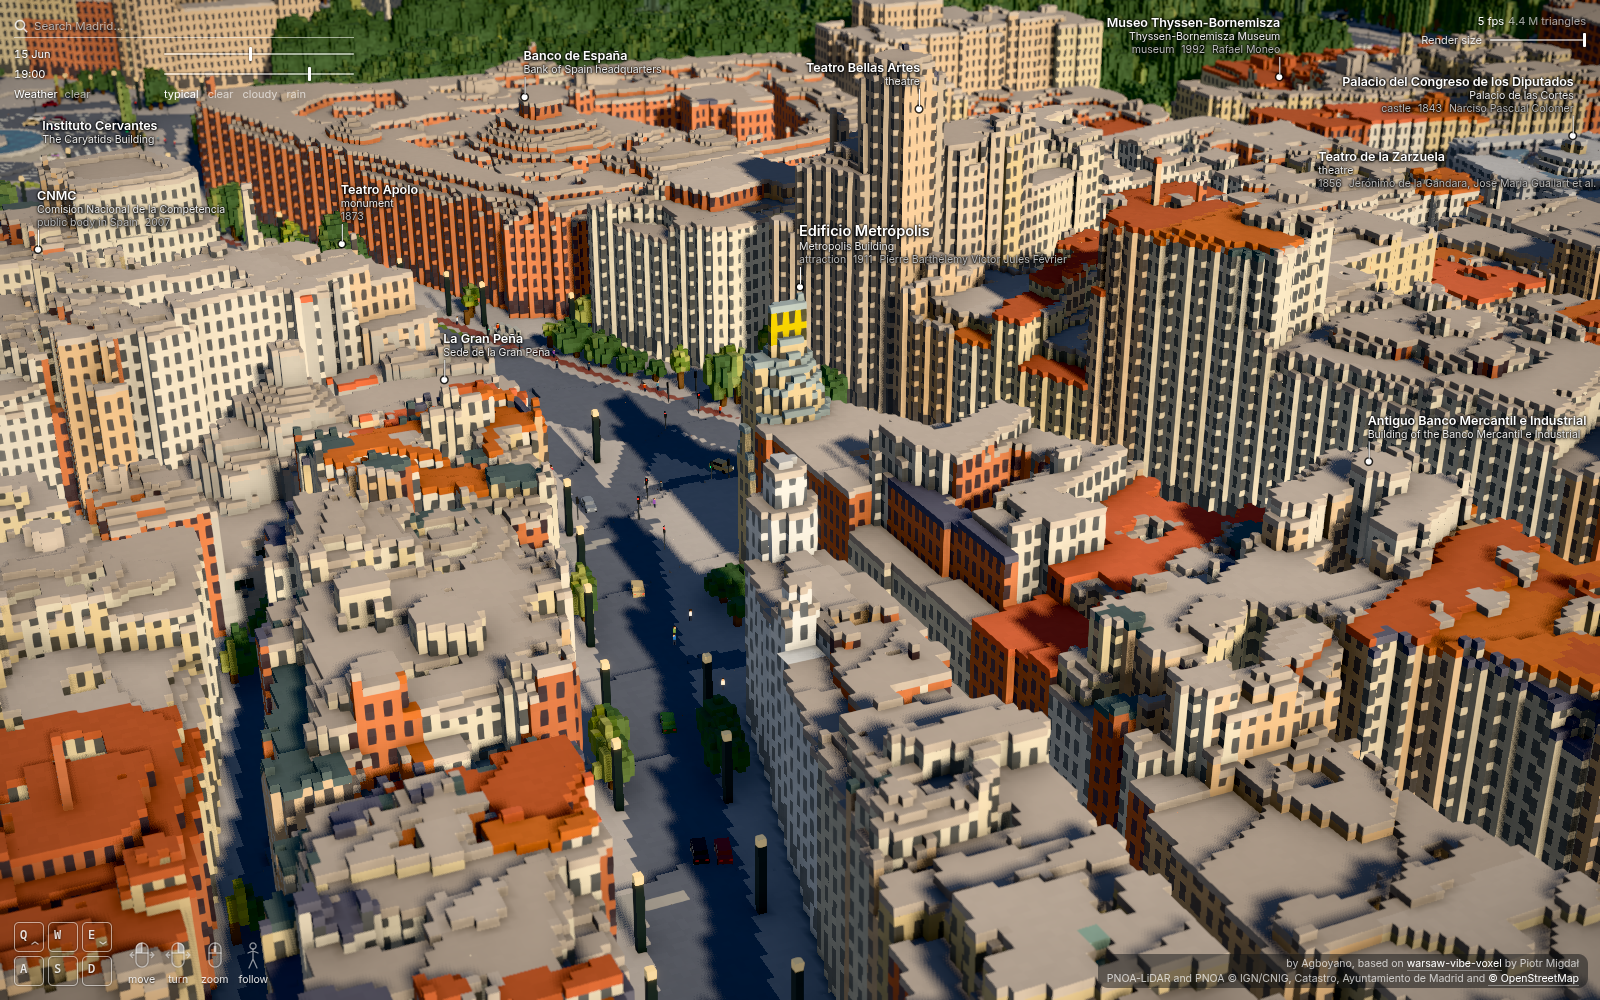
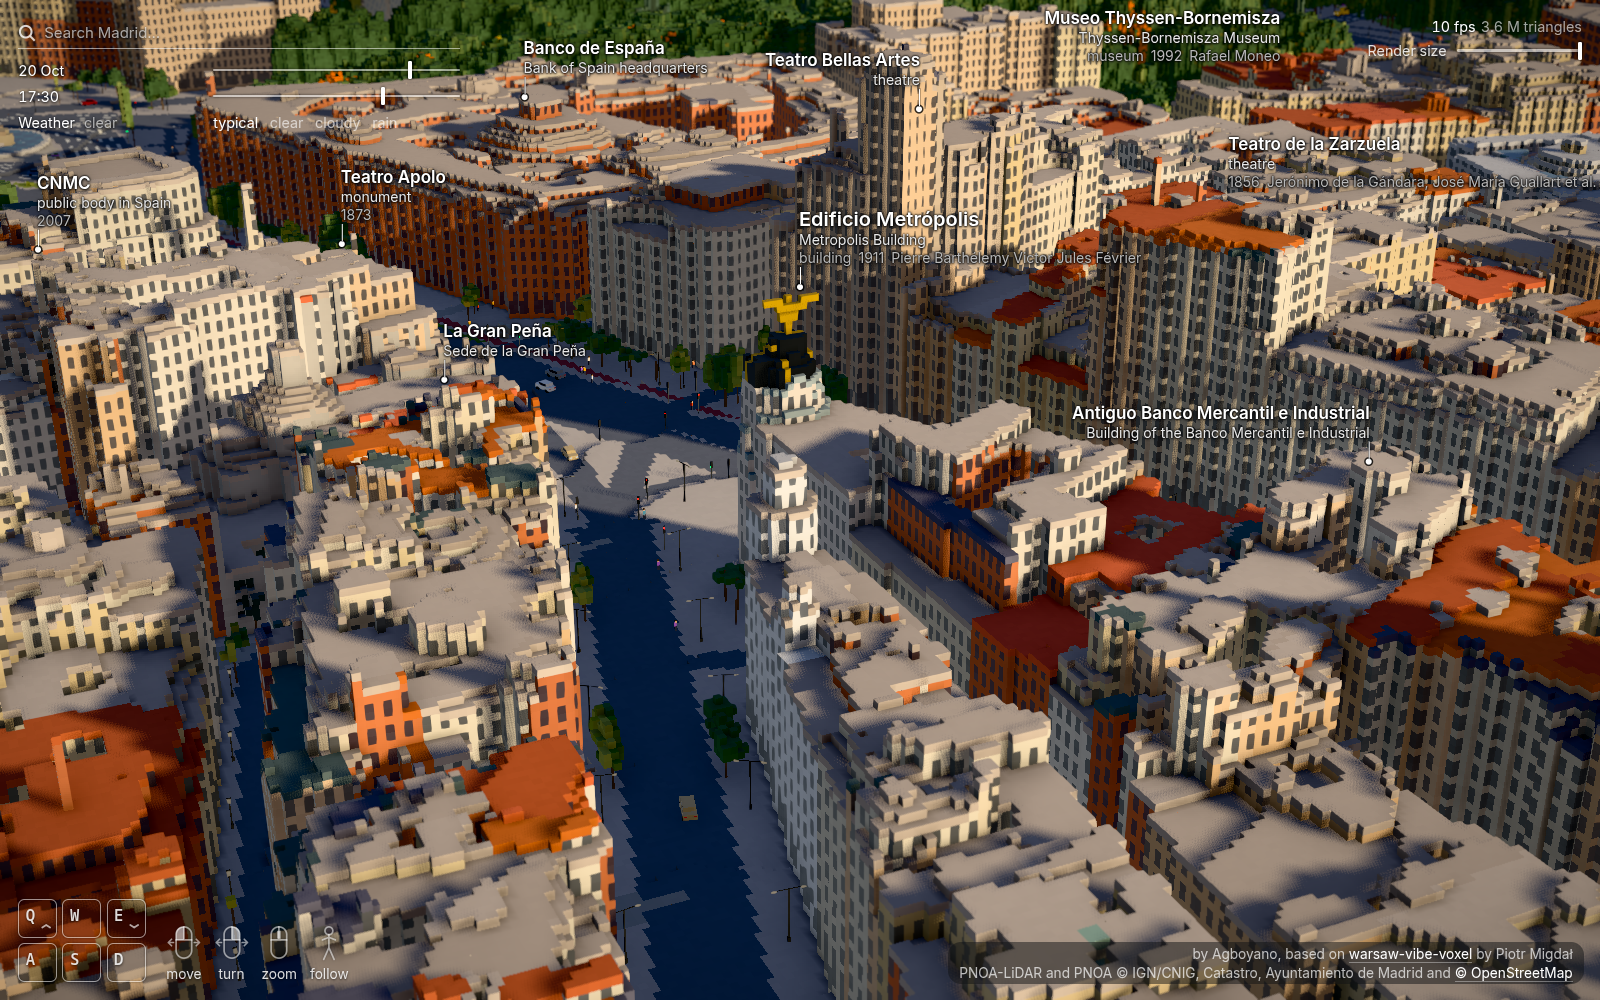
Refresh the README's images, with night and street-level views
The day views are retaken with the thin street lamps, and four are
added: the whole map and Gran Vía at night, Gran Vía at street level
with its traffic, and the Puerta del Sol at night among its walkers.

diff --git a/README.md b/README.md
@@ -10,6 +10,8 @@ An interactive 3D map of central Madrid in 1 m voxels, running in the browser as
 | --- | --- |
 | ![Overview](docs/img/final-overview.png) | ![Gran Vía and the Metrópolis](docs/img/final-granvia.png) |
 | ![Cibeles and the Puerta de Alcalá](docs/img/final-cibeles.png) | ![The Prado](docs/img/final-prado.png) |
+| ![The whole map at night, every street lit](docs/img/final-overview-night.png) | ![Gran Vía and the Metrópolis at night](docs/img/final-granvia-night.png) |
+| ![Gran Vía at street level, with cars and people](docs/img/final-street-granvia.png) | ![The Puerta del Sol at night, at street level](docs/img/final-street-sol.png) |
 
 It is a port of [warsaw-vibe-voxel](https://github.com/stared/warsaw-vibe-voxel) by Piotr Migdał, with pieces adapted from [dtla-voxel](https://github.com/sigman78/dtla-voxel) by sigman78. [docs/improvements.md](docs/improvements.md) explains what changed from Warsaw, and what was taken, adapted or turned down from Los Angeles.
 
